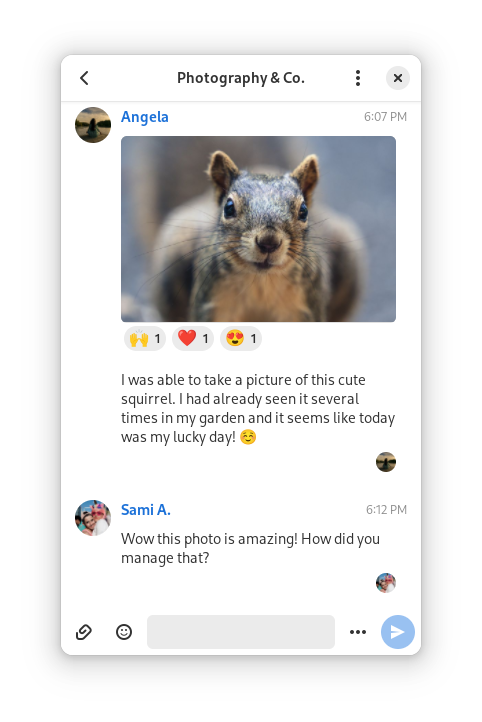
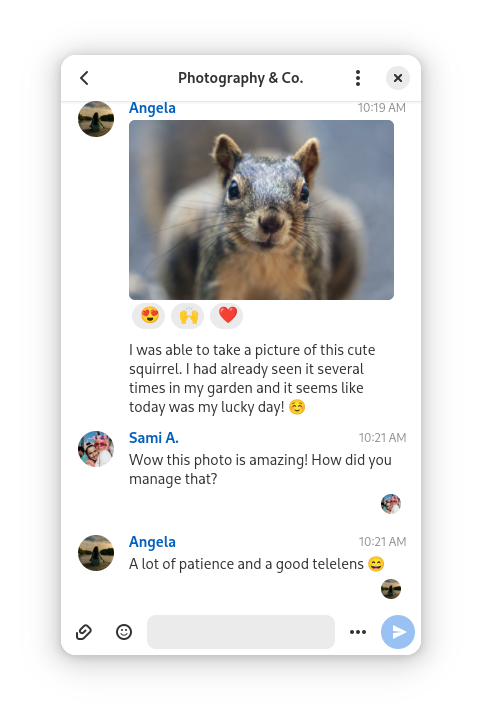
Release Fractal 9

Changed region(s): [[0.1556, 0.1219, 0.8402, 0.8837], [0.3734, 0.0914, 0.6224, 0.1219]]

diff --git a/README.md b/README.md
@@ -38,7 +38,7 @@ development version while keeping the stable release around for daily use.
 
 ### Stable version
 
-The current stable version is 8 (released August 1st 2024).
+The current stable version is 9 (released October 30th 2024).
 
 You can get the official Fractal Flatpak from Flathub.
 
@@ -53,7 +53,7 @@ You can get the official Fractal Flatpak from Flathub.
 
 ### Beta version
 
-The current beta version is 9.rc (released October 17th 2024).
+The current beta version is 9 (same as stable).
 
 It is available as a Flatpak on Flathub Beta.
 
